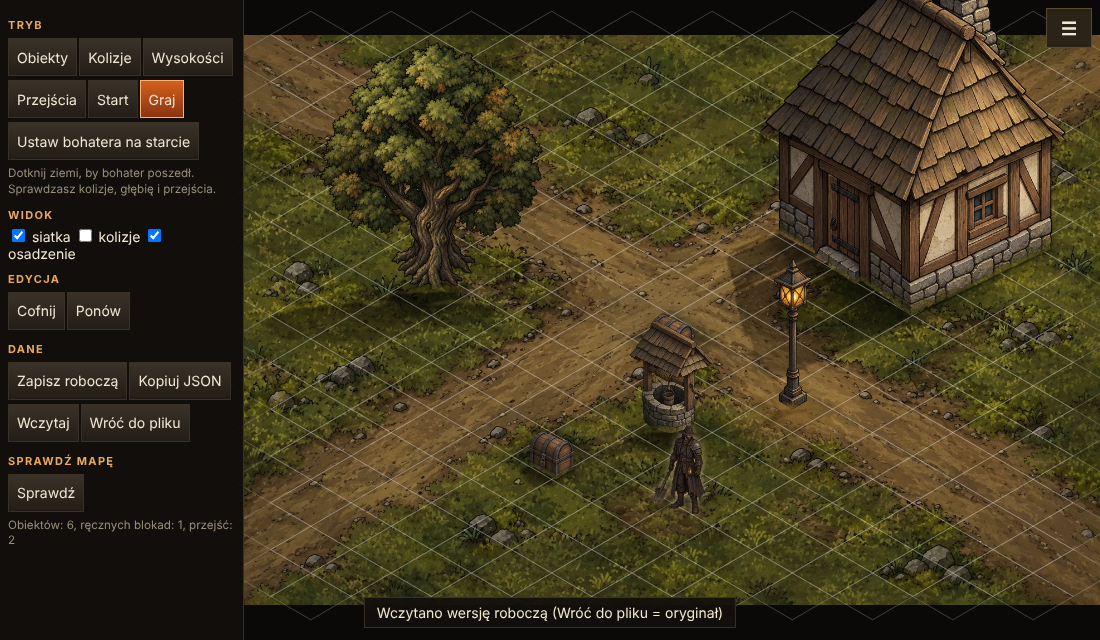
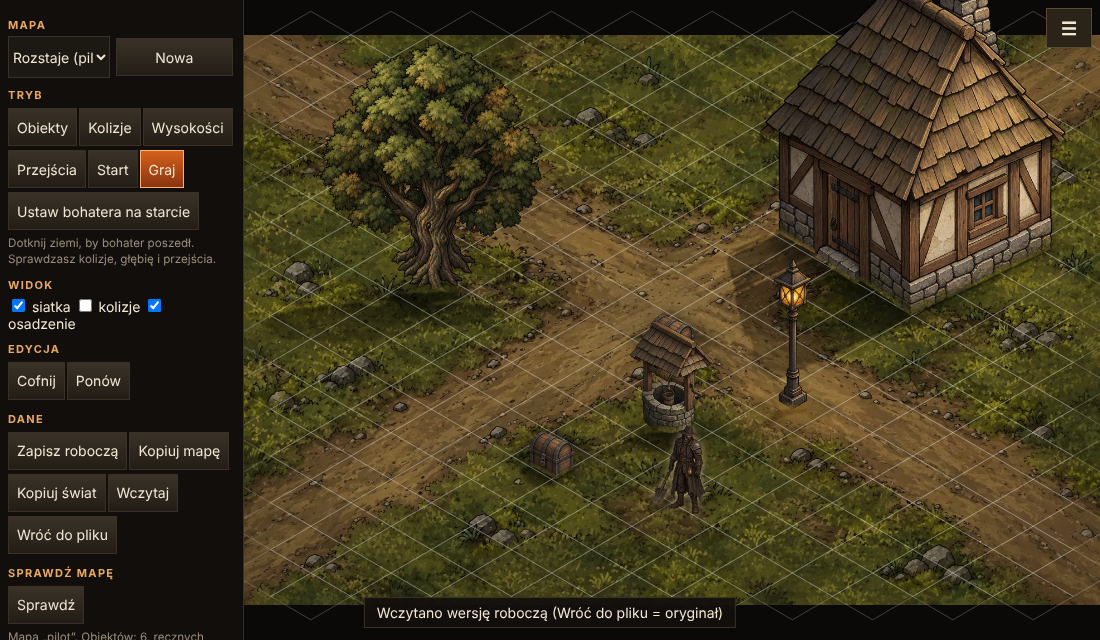
Mapy v3: przejścia między mapami (automatyczne po wejściu w strefę, zanikanie, blokada po przybyciu), druga mapa, walidacja świata, edytor z wyborem i tworzeniem map oraz wyborem celu kliknięciem
Claude-Session: https://claude.ai/code/session_01YGgK3XekFYaLDhBRBtmmRq

Changed region(s): [[0.0, 0.0312, 0.2164, 1.0]]

diff --git a/mapy/edytor.html b/mapy/edytor.html
@@ -25,48 +25,58 @@ small{color:#9a8f7c;display:block;margin:4px 0;line-height:1.35}
 <button id="tog" aria-label="Panel">☰</button>
 <div id="err"></div>
 <div id="panel">
-<h4>Tryb</h4>
+<h4>Mapa</h4><div class="row"><select id="msel" style="min-height:38px;background:#1c1814;border:1px solid #3a3126"></select><button class="b" id="newmap">Nowa</button></div><h4>Tryb</h4>
 <div id="modes"><button class="b" data-m="obj">Obiekty</button><button class="b" data-m="col">Kolizje</button><button class="b" data-m="lvl">Wysokości</button><button class="b" data-m="exit">Przejścia</button><button class="b" data-m="start">Start</button><button class="b" data-m="play">Graj</button></div>
 <div id="sub"></div>
 <small id="help"></small>
 <h4>Widok</h4><label><input type="checkbox" id="gridchk" checked> siatka</label> <label><input type="checkbox" id="colchk"> kolizje</label> <label><input type="checkbox" id="oschk" checked> osadzenie</label>
 <h4>Edycja</h4><button class="b" id="undo">Cofnij</button><button class="b" id="redo">Ponów</button>
 <h4>Dane</h4>
-<button class="b" id="save">Zapisz roboczą</button><button class="b" id="cp">Kopiuj JSON</button><button class="b" id="ld">Wczytaj</button><button class="b" id="orig">Wróć do pliku</button>
+<button class="b" id="save">Zapisz roboczą</button><button class="b" id="cp">Kopiuj mapę</button><button class="b" id="cpw">Kopiuj świat</button><button class="b" id="ld">Wczytaj</button><button class="b" id="orig">Wróć do pliku</button>
 <h4>Sprawdź mapę</h4><button class="b" id="val">Sprawdź</button><div id="res"></div>
 <small id="stat"></small>
 </div>
 <div id="msg"></div>
-<div id="dlg"><div class="box"><div id="dt" style="margin-bottom:8px"></div><textarea id="dta" spellcheck="false"></textarea><input type="file" id="file" accept=".json,application/json" style="display:none"><div style="margin-top:10px"><button class="b" id="dok">OK</button><button class="b" id="dno">Anuluj</button><button class="b" id="dfile" style="display:none">Z pliku</button></div></div></div>
+<div id="dlg"><div class="box"><div id="dt" style="margin-bottom:8px"></div><input type="text" id="dline" style="display:none"><textarea id="dta" spellcheck="false"></textarea><input type="file" id="file" accept=".json,application/json" style="display:none"><div style="margin-top:10px"><button class="b" id="dok">OK</button><button class="b" id="dno">Anuluj</button><button class="b" id="dfile" style="display:none">Z pliku</button></div></div></div>
 <script type="module">
-import {createScene, loadAssets, MAP_W, MAP_H} from './src/scena.js';
+import {createScene, loadAssets, spriteDefs} from './src/scena.js';
 import {validateMap} from './src/walidacja.js';
-import {spriteDefs} from './src/scena.js';
+import {validateWorld} from './src/swiat.js';
 addEventListener('error',e=>{const b=document.getElementById('err');b.style.display='block';b.textContent='Błąd: '+e.message+'. Jeśli przyciski nie działają, strona jest prawdopodobnie otwarta z pliku (file://). Otwórz ją przez serwer (npm start) albo adres https.'});
 setTimeout(()=>{if(!window.__edytor){const b=document.getElementById('err');b.style.display='block';b.textContent='Skrypt edytora się nie uruchomił, dlatego przyciski nie działają. Otwórz stronę przez serwer (npm start) albo adres https, nie z pliku.'}},4000);
-const $=id=>document.getElementById(id),cv=$('c'),Q=new URLSearchParams(location.search),MAP=Q.get('map')||'pilot',KEY='arena.mapdraft.v3.'+MAP;
+const $=id=>document.getElementById(id),cv=$('c'),Q=new URLSearchParams(location.search),DK=id=>'arena.mapdraft.v3.'+id;
 const LIB=window.__LIB||await (await fetch('gra/biblioteka.json')).json();
 const url=p=>(window.__ASSETS&&window.__ASSETS[p])||('gra/'+p);
-const FILE=async()=>window.__MAPS?JSON.parse(JSON.stringify(window.__MAPS[MAP])):await (await fetch('maps/'+MAP+'.json')).json();
-let def=null;try{def=JSON.parse(localStorage.getItem(KEY))}catch(_){}
-const fromDraft=!!(def&&def.objects);if(!fromDraft)def=await FILE();
+const INDEX=window.__MAPS?{start:window.__INDEX||'pilot',maps:Object.keys(window.__MAPS)}:await (await fetch('maps/index.json')).json();
+const FILEMAP=async id=>window.__MAPS?(window.__MAPS[id]?JSON.parse(JSON.stringify(window.__MAPS[id])):null):await fetch('maps/'+id+'.json').then(r=>r.ok?r.json():null).catch(()=>null);
+const maps={};let extra=[],fromDraft=false;try{extra=JSON.parse(localStorage.getItem(DK('__list')))||[]}catch(_){}
+for(const id of [...INDEX.maps,...extra]){let d=null;try{d=JSON.parse(localStorage.getItem(DK(id)))}catch(_){}if(d&&d.objects){maps[id]=d;fromDraft=true}else if(INDEX.maps.includes(id))maps[id]=await FILEMAP(id)}
+let cur=Q.get('map')&&maps[Q.get('map')]?Q.get('map'):INDEX.start,def=maps[cur];
 const A=await loadAssets(LIB,url),SP=spriteDefs(LIB);
+const saveList=()=>{try{localStorage.setItem(DK('__list'),JSON.stringify(Object.keys(maps).filter(i=>!INDEX.maps.includes(i))))}catch(_){}};
 let msgT=0;const toast=t=>{const m=$('msg');m.textContent=t;m.style.opacity=1;clearTimeout(msgT);msgT=setTimeout(()=>m.style.opacity=0,2600)};
 if(fromDraft)toast('Wczytano wersję roboczą (Wróć do pliku = oryginał)');
 // ---- okienka w stronie (prompt i confirm nie działają w WebView ani w artefakcie) ----
-function dialog(title,{text='',ok='OK',area=false,file=false}={}){return new Promise(res=>{$('dt').textContent=title;const ta=$('dta');ta.style.display=area?'block':'none';ta.value=text;$('dok').textContent=ok;$('dfile').style.display=file?'inline-block':'none';$('dlg').style.display='flex';if(area){ta.focus();ta.select()}
- const done=v=>{$('dlg').style.display='none';res(v)};$('dok').onclick=()=>done(area?ta.value:true);$('dno').onclick=()=>done(null);$('dfile').onclick=()=>$('file').click();
+function dialog(title,{text='',ok='OK',area=false,file=false,line=false}={}){return new Promise(res=>{$('dt').textContent=title;const ta=$('dta'),ln=$('dline');ln.style.display=line?'block':'none';ln.value=line?text:'';if(line)setTimeout(()=>ln.focus(),30);ta.style.display=area?'block':'none';ta.value=area?text:'';$('dok').textContent=ok;$('dfile').style.display=file?'inline-block':'none';$('dlg').style.display='flex';if(area){ta.focus();ta.select()}
+ const done=v=>{$('dlg').style.display='none';res(v)};$('dok').onclick=()=>done(line?ln.value:area?ta.value:true);$('dno').onclick=()=>done(null);$('dfile').onclick=()=>$('file').click();
  $('file').onchange=async e=>{const f=e.target.files[0];if(f){ta.value=await f.text()}e.target.value=''}})}
 // ---- stan ----
 let mode='obj',placing=null,sel=-1,exSel=-1,lvl=1,brush='add',ramp=false,undo=[],redo=[],drag=null,ghost=null;
 const snap=()=>JSON.stringify(def),clone=o=>JSON.parse(JSON.stringify(o));
 const push=()=>{undo.push(snap());if(undo.length>80)undo.shift();redo=[]};
+let pick=null;
 const sc=createScene(cv,LIB,A,def,{toast});sc.showGrid=true;sc.play=false;
 const PW=()=>$('panel').classList.contains('off')?0:244;
 const key=(x,y)=>x+','+y;
-function changed(save=true,lazy=true){sc.setDef(def,{keepHero:mode==='play',lazy});if(save)try{localStorage.setItem(KEY,snap())}catch(_){}stat()}
-function stat(){$('stat').textContent=`Obiektów: ${def.objects.length}, ręcznych blokad: ${(def.blocked||[]).length}, przejść: ${def.exits.length}`}
+function changed(save=true,lazy=true){maps[cur]=def;sc.setDef(def,{keepHero:mode==='play',lazy});if(save){try{localStorage.setItem(DK(cur),snap())}catch(_){}saveList()}stat()}
+function stat(){$('stat').textContent=`Mapa „${cur}”. Obiektów: ${def.objects.length}, ręcznych blokad: ${(def.blocked||[]).length}, przejść: ${def.exits.length}`}
 sc.resize(PW());addEventListener('resize',()=>sc.resize(PW()));
+// ---- mapy ----
+function fillMaps(){const m=$('msel');m.innerHTML='';for(const id of Object.keys(maps)){const o=document.createElement('option');o.value=id;o.textContent=(maps[id].name||id)+(INDEX.maps.includes(id)?'':' (nowa)');m.append(o)}m.value=cur}
+function openMap(id){if(!maps[id])return;cur=id;def=maps[id];undo=[];redo=[];sel=-1;exSel=-1;sc.setDef(def);fillMaps();ui();stat();history.replaceState(null,'',location.pathname+'?map='+id)}
+$('msel').onchange=e=>openMap(e.target.value);
+$('newmap').onclick=async()=>{const raw=await dialog('Nazwa nowej mapy (litery, cyfry, podkreślnik), np. cmentarz:',{line:true,text:'mapa'+(Object.keys(maps).length+1),ok:'Utwórz'});if(raw===null)return;const id=raw.trim().toLowerCase().replace(/[^a-z0-9_]/g,'_').replace(/^_+|_+$/g,'');if(!id){toast('Podaj nazwę.');return}if(maps[id]){toast('Mapa o tej nazwie już istnieje.');return}
+ maps[id]={version:3,id,name:raw.trim(),size:[768,512],origin:[384,0],objects:[],blocked:[],levels:{},ramps:[],exits:[],start:[10.5,10]};cur=id;def=maps[id];changed(true,false);openMap(id);toast('Utworzono mapę „'+id+'”. Podłoże jest na razie to samo co w pilocie.')};
 // ---- paleta ----
 const pal=$('pal');
 function drawPalette(el){el.innerHTML='';for(const [n,s] of Object.entries(LIB.sprites)){const b=document.createElement('button');b.dataset.s=n;const c=document.createElement('canvas'),k=Math.min(56/s.w,44/s.h);c.width=Math.round(s.w*k);c.height=Math.round(s.h*k);c.getContext('2d').drawImage(A.IMG[n],0,0,c.width,c.height);b.append(c);const t=document.createElement('span');t.textContent=n+' '+s.footprint.w+'x'+s.footprint.d;b.append(t);b.classList.toggle('on',placing===n);b.onclick=()=>{placing=placing===n?null:n;sel=-1;ui()};el.append(b)}}
@@ -89,8 +99,9 @@ function ui(){
  if(mode==='col'){btn('Blokuj',brush==='add',()=>{brush='add';ui()});btn('Gumka',brush==='del',()=>{brush='del';ui()})}
  if(mode==='lvl'){for(const n of [0,1,2,3])btn('Poziom '+n,!ramp&&lvl===n,()=>{lvl=n;ramp=false;ui()});btn('Rampa',ramp,()=>{ramp=!ramp;ui()})}
  if(mode==='exit'){def.exits.forEach((e,i)=>btn(`${i+1}: ${e.to.map||'(bez celu)'} (${e.cells.length})`,exSel===i,()=>{exSel=i;ui()}));btn('Nowe przejście',false,()=>{push();def.exits.push({cells:[],to:{map:'',x:2,y:2}});exSel=def.exits.length-1;changed();ui()});
-  const e=def.exits[exSel];if(e){inp('Mapa docelowa',e.to.map,v=>{push();e.to.map=v.trim();changed();ui()});const r=document.createElement('div');r.className='row';sub.append(r);
+  const e=def.exits[exSel];if(e){const l=document.createElement('label');l.style.display='block';l.textContent='Mapa docelowa';const se=document.createElement('select');se.style.cssText='width:100%;min-height:36px;background:#1c1814;border:1px solid #3a3126;margin:2px 0';se.innerHTML='<option value="">(wybierz)</option>'+Object.keys(maps).map(id=>`<option value="${id}">${maps[id].name||id}</option>`).join('');se.value=e.to.map||'';se.onchange=()=>{push();e.to.map=se.value;changed();ui()};l.append(se);sub.append(l);const r=document.createElement('div');r.className='row';sub.append(r);
    for(const [lab,k] of [['Kafel x','x'],['Kafel y','y']]){const l=document.createElement('label');l.textContent=lab;const i=document.createElement('input');i.type='number';i.value=e.to[k];i.onchange=()=>{push();e.to[k]=+i.value;changed()};l.append(i);r.append(l)}
+   btn('Wybierz kafel celu na mapie docelowej',false,()=>{if(!e.to.map||!maps[e.to.map]){toast('Najpierw wybierz mapę docelową.');return}pick={from:cur,idx:exSel};openMap(e.to.map);mode='start';ui();toast('Dotknij kafla, na którym bohater pojawi się po przejściu.')});
    btn('Dodaj kafle',brush==='add',()=>{brush='add';ui()});btn('Gumka',brush==='del',()=>{brush='del';ui()});btn('Usuń przejście',false,()=>{push();def.exits.splice(exSel,1);exSel=-1;changed();ui()},'danger')}}
  if(mode==='play')btn('Ustaw bohatera na starcie',false,()=>{sc.hero.x=def.start[0];sc.hero.y=def.start[1];sc.hero.path=[]});
 }
@@ -112,6 +123,7 @@ cv.addEventListener('pointerdown',e=>{if(e.target!==cv)return;const m=sc.toMap(e
  if(mode==='obj'){const i=objAt(e.clientX,e.clientY);
   if(placing&&i<0){if(!inMap(cx,cy)){toast('Tu jest poza mapą.');return}push();def.objects.push({sprite:placing,x:cx+1,y:cy+1});sel=def.objects.length-1;changed(true,false);ui();return}
   sel=i;ui();if(i>=0){push();drag={i,dx:def.objects[i].x-(cx+1),dy:def.objects[i].y-(cy+1),moved:false}}return}
+ if(pick&&mode==='start'){if(!inMap(cx,cy))return;if(sc.M.blocked(cx,cy)){toast('Ten kafel jest zablokowany.');return}const from=pick.from,idx=pick.idx;pick=null;maps[from].exits[idx].to={map:cur,x:cx,y:cy};try{localStorage.setItem(DK(from),JSON.stringify(maps[from]))}catch(_){}openMap(from);mode='exit';exSel=idx;ui();toast('Cel przejścia ustawiony: ('+cx+', '+cy+').');return}
  if(mode==='start'){if(!inMap(cx,cy))return;push();def.start=[cx+.5,cy+.5];changed(true,false);toast('Start ustawiony.');return}
  if(mode==='exit'&&exSel<0){toast('Najpierw wybierz lub dodaj przejście.');return}
  push();drag={paint:true,last:null};paintCell(cx,cy);changed(true,false)});
@@ -137,12 +149,13 @@ sc.overlay=(g,s)=>{if(mode==='play')return;const d=s.dpr,fp=o=>{const f=LIB.spri
 // ---- dane ----
 $('undo').onclick=()=>{if(!undo.length)return;redo.push(snap());def=JSON.parse(undo.pop());changed(true,false);ui()};
 $('redo').onclick=()=>{if(!redo.length)return;undo.push(snap());def=JSON.parse(redo.pop());changed(true,false);ui()};
-$('save').onclick=()=>{try{localStorage.setItem(KEY,snap());toast('Zapisano wersję roboczą w tej przeglądarce.')}catch(_){toast('Przeglądarka nie pozwala zapisać wersji roboczej.')}};
+$('save').onclick=()=>{try{localStorage.setItem(DK(cur),snap());toast('Zapisano wersję roboczą w tej przeglądarce.')}catch(_){toast('Przeglądarka nie pozwala zapisać wersji roboczej.')}};
 $('cp').onclick=async()=>{const js=JSON.stringify(def);try{await navigator.clipboard.writeText(js);toast('Skopiowano JSON do schowka. Wklej go w czacie.')}catch(_){await dialog('Skopiuj ten JSON (zaznaczony) i wklej w czacie:',{text:js,area:true,ok:'Zamknij'})}};
 $('ld').onclick=async()=>{const t=await dialog('Wklej JSON mapy albo wybierz plik:',{area:true,file:true,ok:'Wczytaj'});if(!t)return;try{const d=JSON.parse(t);if(!d.objects||!d.exits||!d.start)throw 0;push();def=d;sel=-1;exSel=-1;changed(true,false);ui();toast('Wczytano mapę.')}catch(_){toast('To nie jest poprawny plik mapy.')}};
-$('orig').onclick=async()=>{if(!(await dialog('Usunąć wersję roboczą i wczytać oryginał z pliku?')))return;try{localStorage.removeItem(KEY)}catch(_){}push();def=await FILE();sel=-1;exSel=-1;changed(false,false);ui()};
-$('val').onclick=()=>{const r=validateMap(def,SP),el=$('res');el.innerHTML='';for(const c of r){const d=document.createElement('div');d.className=c.level;d.textContent=c.msg;el.append(d)}};
-ui();stat();
-window.__edytor={get def(){return def},sc,setMode:m=>$('modes').querySelector(`[data-m=${m}]`).click(),view:()=>sc.view,undoLen:()=>undo.length};
+$('orig').onclick=async()=>{if(!(await dialog('Usunąć wersję roboczą tej mapy i wczytać oryginał z pliku?')))return;try{localStorage.removeItem(DK(cur))}catch(_){}const f=INDEX.maps.includes(cur)?await FILEMAP(cur):null;if(!f){toast('Ta mapa nie ma pliku (jest nowa).');return}push();maps[cur]=def=f;sel=-1;exSel=-1;sc.setDef(def);ui();stat()};
+$('val').onclick=()=>{const r=validateWorld(maps,SP,INDEX.start),el=$('res');el.innerHTML='';for(const c of r){const d=document.createElement('div');d.className=c.level;d.textContent=(c.map?'['+c.map+'] ':'')+c.msg;el.append(d)}};
+$('cpw').onclick=async()=>{const js=JSON.stringify({start:INDEX.start,maps});try{await navigator.clipboard.writeText(js);toast('Skopiowano cały świat (wszystkie mapy). Wklej w czacie.')}catch(_){await dialog('Skopiuj ten JSON (zaznaczony) i wklej w czacie:',{text:js,area:true,ok:'Zamknij'})}};
+fillMaps();ui();stat();
+window.__edytor={get def(){return def},get cur(){return cur},get maps(){return maps},openMap,sc,setMode:m=>$('modes').querySelector(`[data-m=${m}]`).click(),view:()=>sc.view,undoLen:()=>undo.length};
 const loop=t=>{requestAnimationFrame(loop);sc.draw(t)};requestAnimationFrame(loop);
 </script></body></html>

diff --git a/mapy/podglad.html b/mapy/podglad.html
@@ -7,28 +7,42 @@ canvas{position:fixed;inset:0;width:100%;height:100%;touch-action:none;display:b
 #bar button,#bar a{min-height:40px;padding:0 12px;border:1px solid #5a4a34;background:rgba(42,35,24,.9);color:#f1e7d3;font:600 13px system-ui;display:flex;align-items:center;text-decoration:none}
 #bar button.on{background:#a8481a;border-color:#ffb070}
 #msg{position:fixed;left:50%;bottom:12px;transform:translateX(-50%);background:rgba(18,15,12,.92);border:1px solid #3a3126;padding:6px 12px;z-index:3;max-width:80vw;text-align:center}
+#mname{position:fixed;left:8px;top:8px;z-index:3;background:rgba(18,15,12,.85);border:1px solid #3a3126;padding:6px 12px;font:600 13px system-ui;letter-spacing:.04em}
+#fade{position:fixed;inset:0;background:#000;opacity:0;pointer-events:none;transition:opacity .25s;z-index:8}
 #err{display:none;position:fixed;left:8px;right:8px;top:8px;z-index:9;background:#5a1a14;border:1px solid #ff7050;padding:10px}
 </style></head><body>
 <canvas id="c"></canvas><div id="err"></div>
 <div id="bar"><button id="bo" class="on">Osadzenie</button><button id="bg">Siatka</button><button id="bc">Kolizje</button><a id="ed" href="edytor.html">Edytor</a></div>
-<div id="msg">Dotknij ziemi, by tam pójść.</div>
+<div id="msg">Dotknij ziemi, by tam pójść.</div><div id="mname"></div><div id="fade"></div>
 <script type="module">
-import {createScene, loadAssets} from './src/scena.js';
+import {createScene, loadAssets, spriteDefs} from './src/scena.js';
+import {resolveExit} from './src/swiat.js';
 addEventListener('error',e=>{const b=document.getElementById('err');b.style.display='block';b.textContent='Błąd: '+e.message+'. Strona wymaga serwera (npm start) albo adresu https, nie pliku z dysku.'});
-const $=id=>document.getElementById(id),cv=$('c'),Q=new URLSearchParams(location.search),MAP=Q.get('map')||'pilot';
-const LIB=window.__LIB||await (await fetch('gra/biblioteka.json')).json();
+const $=id=>document.getElementById(id),cv=$('c'),Q=new URLSearchParams(location.search);
+const LIB=window.__LIB||await (await fetch('gra/biblioteka.json')).json(),SP=spriteDefs(LIB);
 const url=p=>(window.__ASSETS&&window.__ASSETS[p])||('gra/'+p);
-let def=null;if(Q.get('draft')==='1'){try{def=JSON.parse(localStorage.getItem('arena.mapdraft.v3.'+MAP))}catch(_){}}
-if(!def)def=window.__MAPS?window.__MAPS[MAP]:await (await fetch('maps/'+MAP+'.json')).json();
-$('ed').href='edytor.html?map='+MAP;
+// świat: wszystkie mapy z index.json (albo wbudowane), przy ?draft=1 nadpisane wersjami roboczymi z edytora
+const INDEX=window.__MAPS?{start:window.__INDEX||'pilot',maps:Object.keys(window.__MAPS)}:await (await fetch('maps/index.json')).json();
+const maps={};for(const id of INDEX.maps)maps[id]=window.__MAPS?window.__MAPS[id]:await (await fetch('maps/'+id+'.json')).json();
+if(Q.get('draft')==='1'){let extra=[];try{extra=JSON.parse(localStorage.getItem('arena.mapdraft.v3.__list'))||[]}catch(_){}
+ for(const id of [...INDEX.maps,...extra]){try{const d=JSON.parse(localStorage.getItem('arena.mapdraft.v3.'+id));if(d&&d.objects)maps[id]=d}catch(_){}}}
+let cur=Q.get('map')&&maps[Q.get('map')]?Q.get('map'):INDEX.start;
+$('ed').href='edytor.html?map='+cur;
 const A=await loadAssets(LIB,url);
 let msgT=0;const toast=t=>{const m=$('msg');m.textContent=t;m.style.opacity=1;clearTimeout(msgT);msgT=setTimeout(()=>m.style.opacity=0,2400)};
-const sc=createScene(cv,LIB,A,def,{toast});
+const label=()=>{$('mname').textContent=maps[cur].name||cur};
+const sc=createScene(cv,LIB,A,maps[cur],{toast});label();
 sc.resize();addEventListener('resize',()=>sc.resize());
-cv.addEventListener('pointerdown',e=>{const m=sc.toMap(e.clientX,e.clientY);sc.moveTo(m.cell[0],m.cell[1])});
+let busy=false;
+sc.onExit=async to=>{if(busy)return;busy=true;const r=resolveExit(maps,to,SP);
+ if(r.error){toast(r.error);busy=false;return}
+ $('fade').style.opacity=1;await new Promise(ok=>setTimeout(ok,260));
+ cur=to.map;sc.enter(r.def,r.pos);label();$('ed').href='edytor.html?map='+cur;
+ await new Promise(ok=>setTimeout(ok,60));$('fade').style.opacity=0;await new Promise(ok=>setTimeout(ok,260));busy=false};
+cv.addEventListener('pointerdown',e=>{if(busy)return;const m=sc.toMap(e.clientX,e.clientY);sc.moveTo(m.cell[0],m.cell[1])});
 const tg=(b,get,set)=>{$(b).onclick=()=>{set(!get());$(b).classList.toggle('on',get())}};
 tg('bo',()=>sc.osad,v=>sc.osad=v);tg('bg',()=>sc.showGrid,v=>sc.showGrid=v);tg('bc',()=>sc.showCol,v=>sc.showCol=v);
 addEventListener('keydown',e=>{if(e.key==='o')$('bo').click();if(e.key==='g')$('bg').click();if(e.key==='c')$('bc').click()});
-window.__podglad={hero:sc.hero,M:sc.M,view:()=>sc.view,go:(cx,cy)=>sc.moveTo(cx,cy)};
+window.__podglad={hero:sc.hero,get M(){return sc.M},get map(){return cur},view:()=>sc.view,go:(cx,cy)=>sc.moveTo(cx,cy),get busy(){return busy}};
 const loop=t=>{requestAnimationFrame(loop);sc.draw(t)};requestAnimationFrame(loop);
 </script></body></html>

diff --git a/mapy/src/scena.js b/mapy/src/scena.js
@@ -19,7 +19,7 @@ export const spriteDefs = (LIB) => Object.fromEntries(Object.entries(LIB.sprites
 
 export function createScene(cv, LIB, A, def0, opts = {}) {
   const g = cv.getContext('2d'), SP = spriteDefs(LIB), GP = pixelsOf(A.ground), baked = mkCanvas(1536, 1024), bg = baked.getContext('2d');
-  const sc = { osad: true, showGrid: false, showCol: false, play: true, view: { z: 1, ox: 0, oy: 0 }, dpr: 1, hero: { x: 0, y: 0, path: [], dir: 'SW', t: 0, walk: false }, overlay: null, toast: opts.toast || (() => {}), hideObjects: null };
+  const sc = { exitLock: true, onExit: null, osad: true, showGrid: false, showCol: false, play: true, view: { z: 1, ox: 0, oy: 0 }, dpr: 1, hero: { x: 0, y: 0, path: [], dir: 'SW', t: 0, walk: false }, overlay: null, toast: opts.toast || (() => {}), hideObjects: null };
   let M, iso, SUNK = [], shCache = new Map(), HSH = new Map(), bakeTimer = 0, last = 0;
 
   const sprAlpha = {};   // maski alfa sprite'ów do trafiania w obiekty kliknięciem
@@ -81,9 +81,11 @@ export function createScene(cv, LIB, A, def0, opts = {}) {
     h.walk = false;
     if (sc.play && h.path.length) {
       const [tx, ty] = h.path[0], dx = tx - h.x, dy = ty - h.y, dist = Math.hypot(dx, dy), sp = 2.7 * dt;
-      if (dist <= sp) { h.x = tx; h.y = ty; h.path.shift(); if (!h.path.length) { const ex = M.exitAt(Math.floor(h.x), Math.floor(h.y)); if (ex) sc.toast('Przejście do mapy "' + ex.map + '" (tu nastąpiłoby przeniesienie)'); } }
+      if (dist <= sp) { h.x = tx; h.y = ty; h.path.shift(); }
       else { h.x += dx / dist * sp; h.y += dy / dist * sp; h.walk = true; h.t += dt; h.dir = sector((dx - dy) * TW / 2, (dx + dy) * TH / 2); }
     }
+    // przejście na krawędzi: wejście w kafel strefy przenosi od razu; po przybyciu strefa jest zablokowana, dopóki bohater z niej nie zejdzie
+    if (sc.play) { const ex = M.exitAt(Math.floor(h.x), Math.floor(h.y)); if (!ex) sc.exitLock = false; else if (!sc.exitLock) { sc.exitLock = true; h.path = []; if (sc.onExit) sc.onExit(ex); } }
     g.setTransform(1, 0, 0, 1, 0, 0); g.fillStyle = '#0a0908'; g.fillRect(0, 0, cv.width, cv.height);
     g.drawImage(sc.osad ? baked : A.ground, sc.view.ox * d, sc.view.oy * d, MAP_W * z * d, MAP_H * z * d);
     if (sc.showGrid || sc.showCol) for (const [cx, cy] of iso.cells()) {
@@ -107,6 +109,7 @@ export function createScene(cv, LIB, A, def0, opts = {}) {
     if (sc.osad) { g.save(); g.globalCompositeOperation = 'multiply'; const x0 = sc.view.ox * d, y0 = sc.view.oy * d, w = MAP_W * z * d, hh = MAP_H * z * d, gr = g.createLinearGradient(x0 + w, y0, x0, y0 + hh); gr.addColorStop(0, 'rgb(255,250,238)'); gr.addColorStop(1, 'rgb(205,210,222)'); g.globalAlpha = .55; g.fillStyle = gr; g.fillRect(x0, y0, w, hh); g.restore(); }
     if (sc.overlay) sc.overlay(g, sc);
   }
+  sc.enter = (d, pos) => { sc.hero.x = pos[0]; sc.hero.y = pos[1]; sc.hero.path = []; setDef(d, { keepHero: true }); sc.exitLock = true; };
   sc.setDef = setDef; sc.scheduleBake = scheduleBake; sc.rebake = rebake; sc.resize = resize; sc.draw = draw; sc.drawImgAt = drawImg;
   setDef(def0);
   return sc;

diff --git a/mapy/src/swiat.js b/mapy/src/swiat.js
@@ -1,0 +1,37 @@
+// Świat map v3: przejścia na krawędzi między mapami i sprawdzanie spójności całego zestawu. Czysta logika (bez DOM).
+import { buildMap } from './mapdata.js';
+import { validateMap } from './walidacja.js';
+
+// Cel przejścia: { map, x, y } = kafel startu w mapie docelowej. Zwraca { def, pos } albo { error }.
+export function resolveExit(maps, to, sprites) {
+  const def = maps[to && to.map]; if (!def) return { error: `Nie ma mapy "${to && to.map}".` };
+  const M = buildMap({ ...def, sprites });
+  if (!M.inMap(to.x, to.y)) return { error: `Kafel (${to.x}, ${to.y}) leży poza mapą "${to.map}".` };
+  if (M.blocked(to.x, to.y)) return { error: `Kafel (${to.x}, ${to.y}) w mapie "${to.map}" jest zablokowany.` };
+  return { def, pos: [to.x + 0.5, to.y + 0.5] };
+}
+
+// Spójność świata: każde przejście ma istniejący, wolny cel; cel nie leży w strefie przejścia (inaczej bohater od razu wracałby),
+// a w mapie docelowej jest przejście z powrotem; każda mapa jest osiągalna ze startowej.
+export function validateWorld(maps, sprites, startId) {
+  const out = [], add = (level, id, msg) => out.push({ level, map: id, msg });
+  const links = new Map();
+  for (const [id, def] of Object.entries(maps)) {
+    for (const r of validateMap(def, sprites)) if (r.level !== 'ok') out.push({ ...r, map: id });
+    (def.exits || []).forEach((e, i) => {
+      const t = e.to || {}, res = resolveExit(maps, t, sprites), name = `Mapa "${id}", przejście ${i + 1}`;
+      if (res.error) { add('fail', id, `${name}: ${res.error}`); return; }
+      (links.get(id) || links.set(id, new Set()).get(id)).add(t.map);
+      const M = buildMap({ ...res.def, sprites });
+      if (M.exitAt(t.x, t.y)) add('warn', id, `${name}: kafel docelowy leży w strefie przejścia mapy "${t.map}". Bohater pojawi się na niej (po wyjściu z niej wróci mechanika przejść).`);
+      if (!(res.def.exits || []).some((x) => x.to && x.to.map === id)) add('warn', id, `${name}: mapa "${t.map}" nie ma przejścia z powrotem do "${id}".`);
+    });
+  }
+  if (startId && maps[startId]) {
+    const seen = new Set([startId]), q = [startId];
+    while (q.length) for (const n of links.get(q.shift()) || []) if (!seen.has(n)) { seen.add(n); q.push(n); }
+    for (const id of Object.keys(maps)) if (!seen.has(id)) add('warn', id, `Mapa "${id}" nie jest osiągalna z mapy startowej "${startId}".`);
+  }
+  if (!out.length) add('ok', null, 'Świat jest spójny.');
+  return out;
+}

diff --git a/tools/build_single.py b/tools/build_single.py
@@ -8,10 +8,10 @@ lib = json.load(open(os.path.join(R, 'gra', 'biblioteka.json')))
 files = [lib['ground']['file'], lib['hero']['idle_sw']['file'], lib['hero']['idle_ne']['file']] + [f['file'] for f in lib['hero']['walk_w']] + [s['file'] for s in lib['sprites'].values()]
 mime = lambda f: 'image/jpeg' if f.endswith('.jpg') else 'image/png'
 assets = {f: 'data:%s;base64,%s' % (mime(f), base64.b64encode(open(os.path.join(R, 'gra', f), 'rb').read()).decode()) for f in files}
-maps = {os.path.basename(p)[:-5]: json.load(open(p, encoding='utf-8')) for p in glob.glob(os.path.join(R, 'maps', '*.json'))}
+maps = {os.path.basename(p)[:-5]: json.load(open(p, encoding='utf-8')) for p in glob.glob(os.path.join(R, 'maps', '*.json')) if not p.endswith('index.json')}
 def strip(src): return re.sub(r'^import .*?;\s*$', '', re.sub(r'^export ', '', src, flags=re.M), flags=re.M)
-mods = '\n'.join(strip(open(os.path.join(R, 'src', n + '.js'), encoding='utf-8').read()) for n in ('iso', 'mapdata', 'osadzenie', 'walidacja', 'scena'))
-head = '<script>window.__LIB=%s;window.__ASSETS=%s;window.__MAPS=%s;</script>\n' % (json.dumps(lib), json.dumps(assets), json.dumps(maps))
+mods = '\n'.join(strip(open(os.path.join(R, 'src', n + '.js'), encoding='utf-8').read()) for n in ('iso', 'mapdata', 'osadzenie', 'walidacja', 'swiat', 'scena'))
+head = '<script>window.__LIB=%s;window.__ASSETS=%s;window.__MAPS=%s;window.__INDEX=%s;</script>\n' % (json.dumps(lib), json.dumps(assets), json.dumps(maps), json.dumps(json.load(open(os.path.join(R, 'maps', 'index.json')))['start']))
 page = re.sub(r"^import \{.*?\} from '\./src/\w+\.js';\n", '', page, flags=re.M)
 page = page.replace('<script type="module">', head + '<script type="module">\n' + mods + '\n', 1)
 if artifact:

diff --git a/mapy/SPEC.md b/mapy/SPEC.md
@@ -93,3 +93,9 @@ Automat: `mapy/sprawdz.html` (otwierasz z pliku lub przez `npm start`, przeciąg
 - Rysujemy tylko dwa kierunki: SE (twarzą do widza, w prawo) i NE (tyłem, w prawo). SW i NW to lustro SE i NE, jak w grze z kodu.
 - Chód: klatki cyklu (docelowo 6 do 8 klatek na kierunek), stały rozmiar klatki, kotwica w tym samym punkcie.
 - Test pilota: jeden bohater (Grabarz) w dwóch kierunkach na jednym arkuszu, sprawdzamy czy to ta sama postać i czy skala jest ta sama.
+
+## 14. Przejścia między mapami (zrobione)
+- Przejście to zestaw kafli na mapie z celem `{map, x, y}`, gdzie `x, y` to kafel startu w mapie docelowej. Dane w `maps/<id>.json`, lista map w `maps/index.json`.
+- Wejście bohatera w kafel strefy przenosi go od razu (zanikanie ekranu), bez przycisku. Po przybyciu strefa jest zablokowana, dopóki bohater z niej nie zejdzie, więc nie ma odbijania tam i z powrotem.
+- Walidacja świata (`src/swiat.js`): cel istnieje i jest wolnym kaflem, cel nie leży w strefie przejścia, mapa docelowa ma przejście z powrotem, każda mapa jest osiągalna z mapy startowej.
+- Edytor: wybór mapy, tworzenie nowej, cel przejścia wybierany z listy lub kliknięciem kafla na mapie docelowej, "Kopiuj świat" kopiuje wszystkie mapy naraz.
